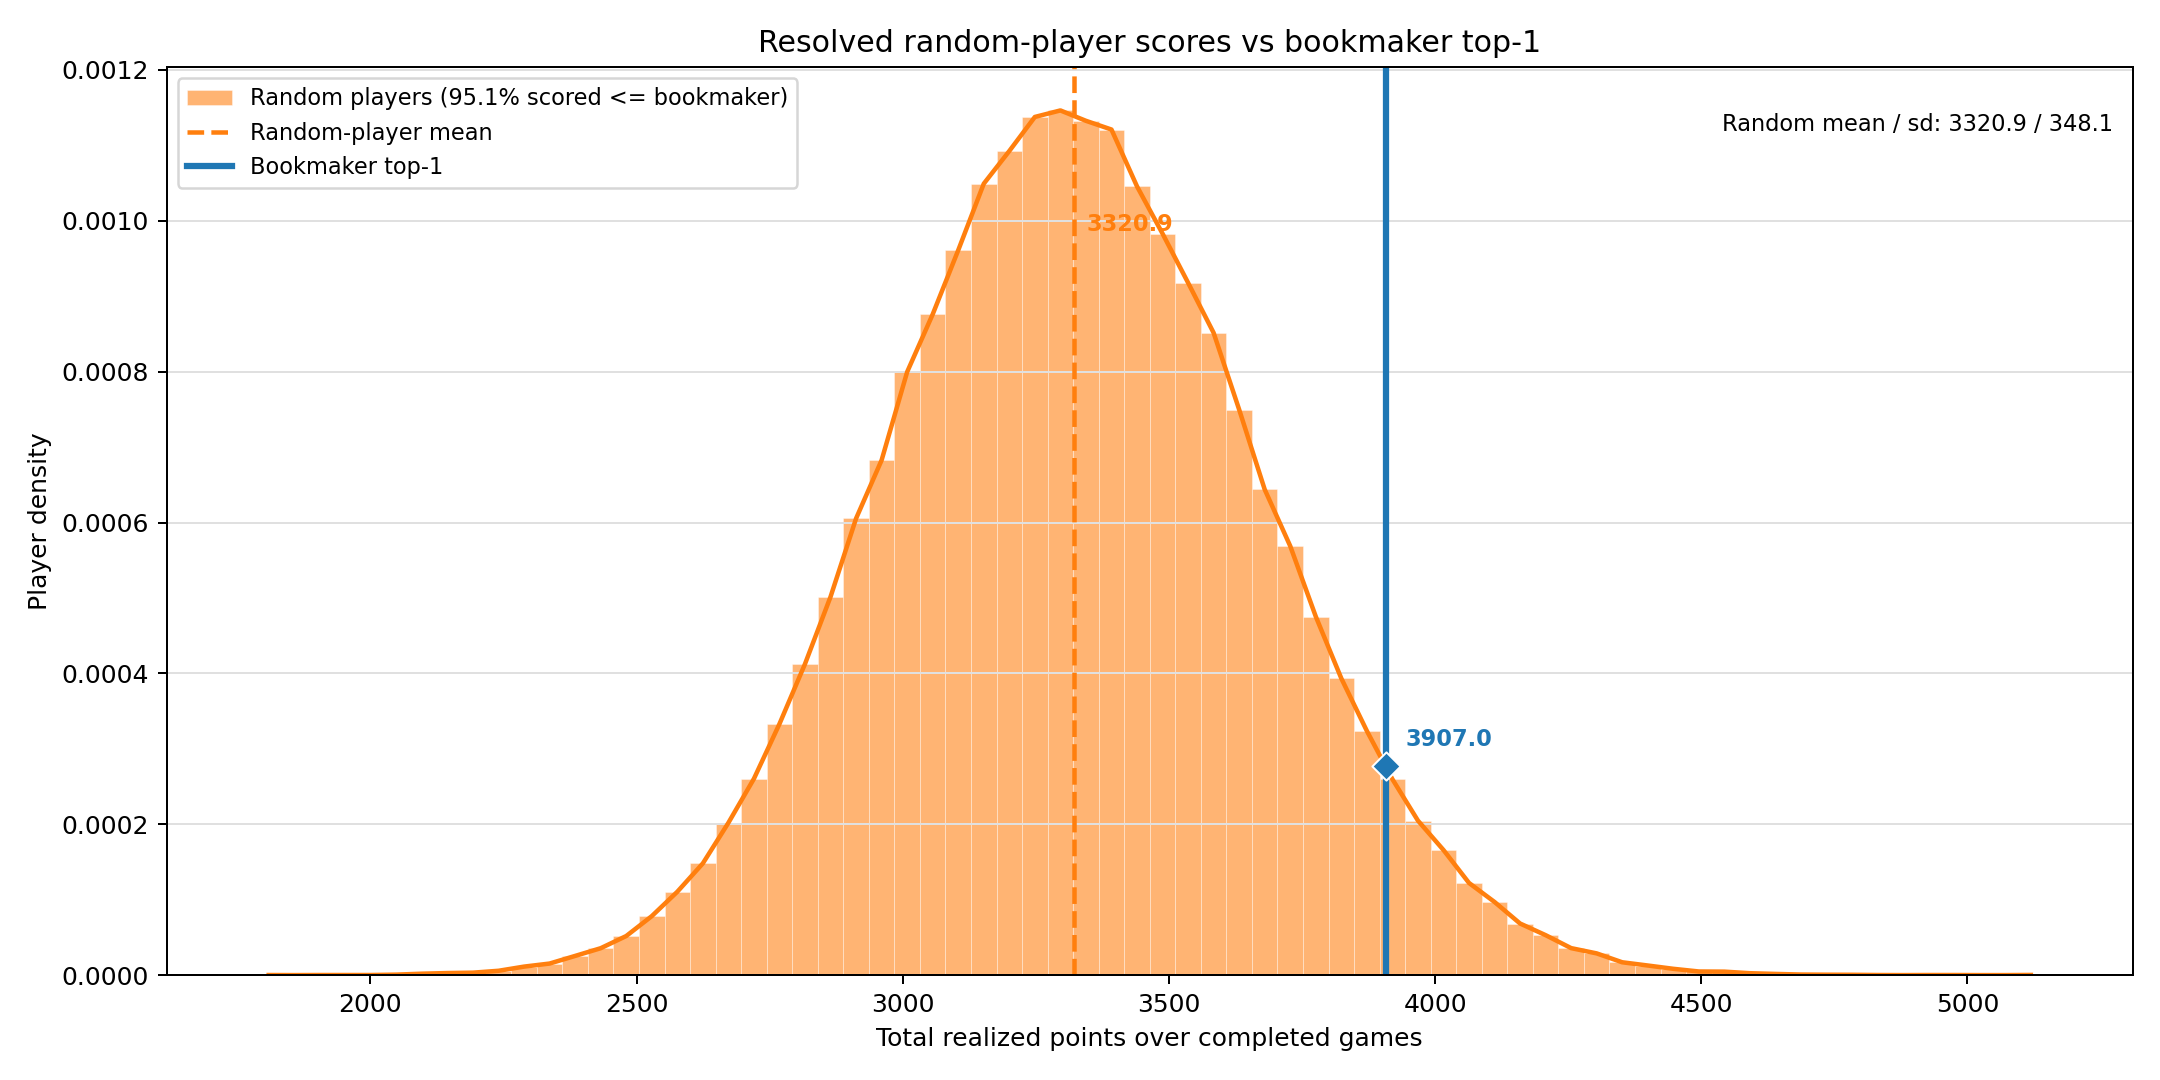
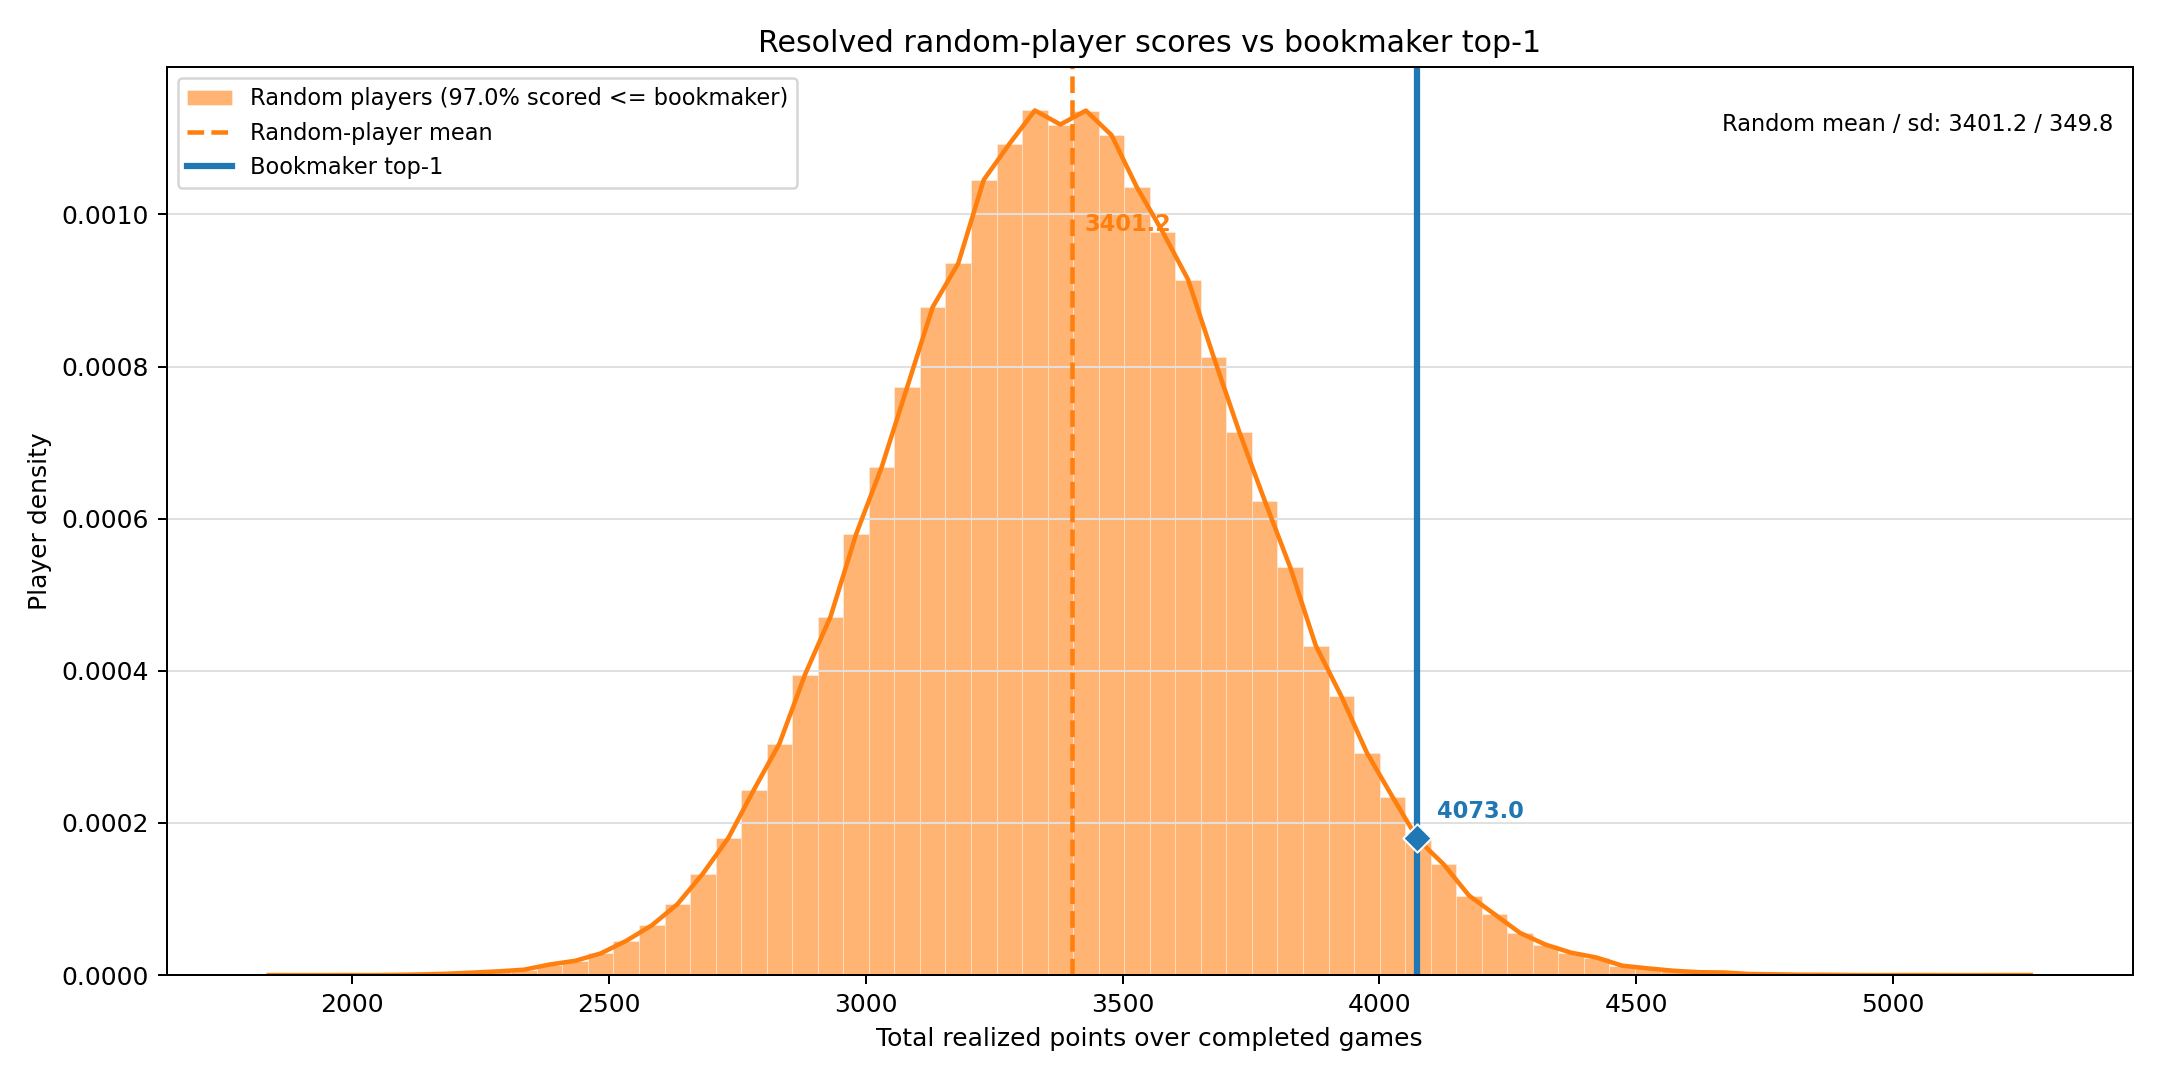
latest

diff --git a/README.md b/README.md
@@ -87,12 +87,12 @@ such as `1-0`.
 
 Latest full run:
 
-- Completed bookmaker-injected top-1 picks: **88**
-- Bookmaker top-1 resolved points: **3907.00**
-- Bookmaker logged EV: **3592.27**
-- Random-player resolved expected points: **3320.99**
-- Realized edge vs random-player baseline: **+586.01**
-- Bookmaker top-1 percentile vs sampled random players: **95.12%**
+- Completed bookmaker-injected top-1 picks: **90**
+- Bookmaker top-1 resolved points: **4073.00**
+- Bookmaker logged EV: **3671.94**
+- Random-player resolved expected points: **3401.34**
+- Realized edge vs random-player baseline: **+671.66**
+- Bookmaker top-1 percentile vs sampled random players: **96.99%**
 
 ![Latest bookmaker-injected top-1 vs random-player simulation](data/analysis/strategy_simulations/bookmaker_injected/top1_vs_random_player_distribution.png)
 
@@ -193,7 +193,9 @@ Legend: `❌` wrong result, `✅` correct result, `🎯` exact score.
 | ❌ | Australia vs Egypt | 0-1 | 1-1 | 0 | 0 | **0** |
 | ✅ | Argentina vs Cape Verde | 2-0 | 3-2 | 25 | 0 | **25** |
 | 🎯 | Colombia vs Ghana | 1-0 | 1-0 | 66 | 50 | **116** |
-|  | **Total** |  |  | **3487** | **420** | **3907** |
+| ✅ | Canada vs Morocco | 0-1 | 0-3 | 68 | 0 | **68** |
+| 🎯 | Paraguay vs France | 0-1 | 0-1 | 28 | 70 | **98** |
+|  | **Total** |  |  | **3583** | **490** | **4073** |
 
 ## Quick Start
 
